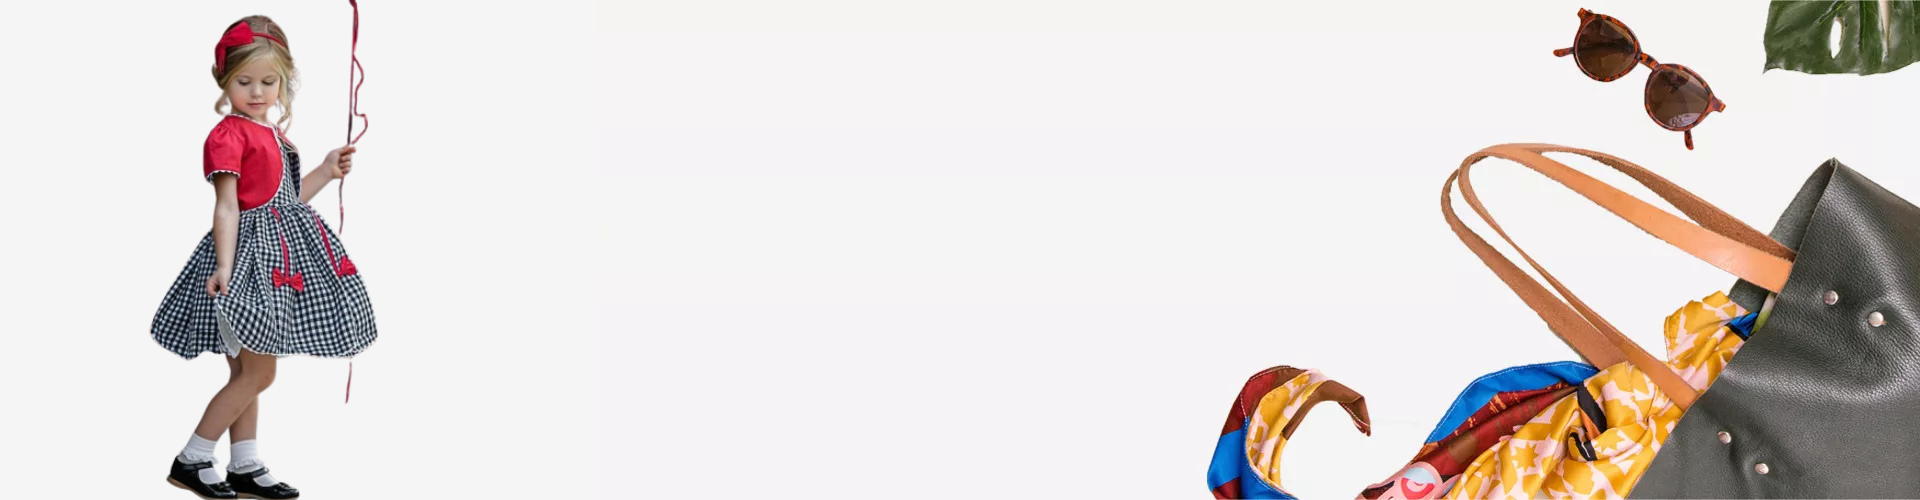
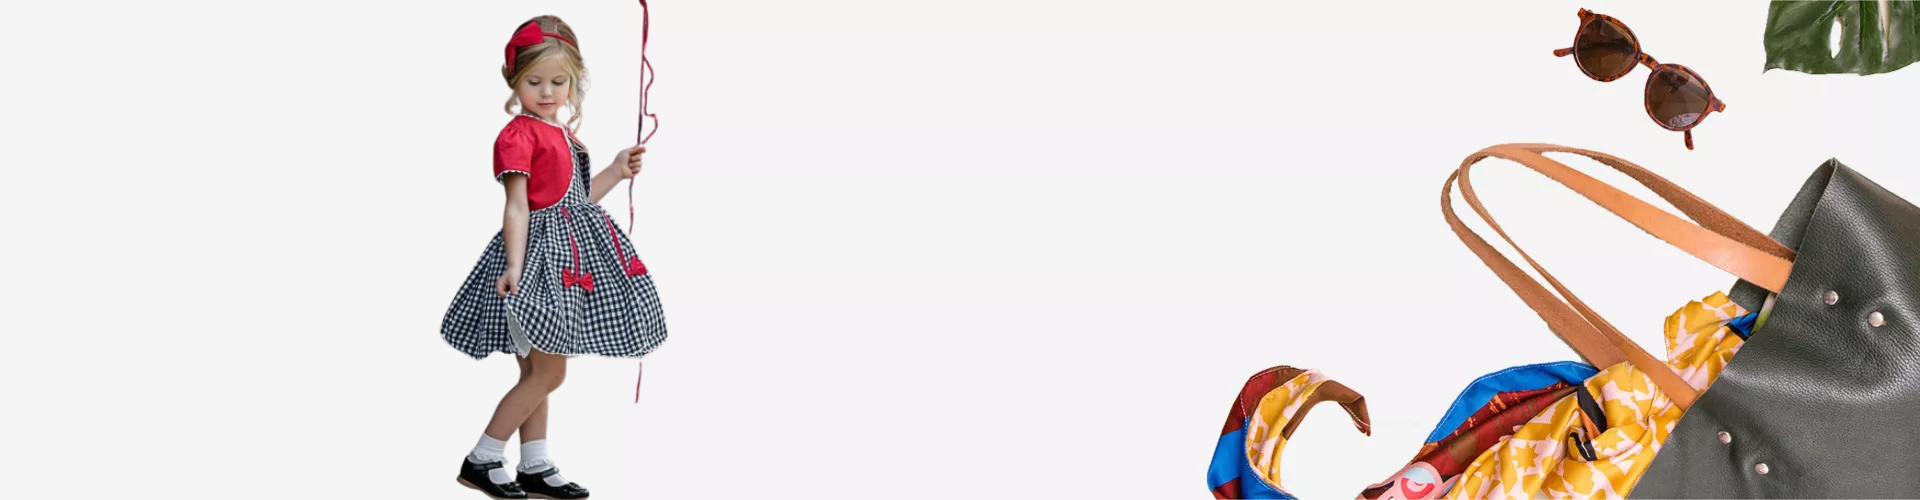
us ajax

Changed region(s): [[0.0625, 0.0, 0.375, 1.0]]

diff --git a/assets/script.js b/assets/script.js
@@ -1,6 +1,24 @@
-import {products}  from './products.js';
+// import {products}  from './products.js';
 var products_tab = document.getElementById('products-tab');
 var category_tab = Array.from(document.getElementById('category-tab').children);
+var products=[];
+
+const xhr=new XMLHttpRequest();
+xhr.open('GET','./assets/products.json');
+xhr.onreadystatechange=function(){
+ 
+    if(xhr.readyState==4 &&  xhr.status==200){
+       var products=JSON.parse(xhr.response);
+       createElementOfproducts(products);
+        console.log("products get correctly");
+    }else{
+        console.log("products failed");
+    }
+
+}
+xhr.send();
+
+
 function create_product(url, type, price, offer = null, name, stars) {
     return `
         
@@ -28,43 +46,47 @@ function create_product(url, type, price, offer = null, name, stars) {
         `;
 }
 
-category_tab.forEach(function(tab,index) {
-    var ele = document.createElement('div');
-    ele.id = tab.dataset.type;
-    if(index === 0){
 
-        ele.className = 'tab-pane fade show active';
-    }else{
-        ele.className = 'tab-pane fade';
-    }
+function createElementOfproducts(products) {
+    category_tab.forEach(function(tab,index) {
+        var ele = document.createElement('div');
+        ele.id = tab.dataset.type;
+        if(index === 0){
     
-    var product_list= document.createElement('section');
-    product_list.className = 'products-list row';
+            ele.className = 'tab-pane fade show active';
+        }else{
+            ele.className = 'tab-pane fade';
+        }
+        
+        var product_list= document.createElement('section');
+        product_list.className = 'products-list row';
+        
     
-
-    // Filter products based on the category type
-    var productsList = (tab.dataset.type !== 'all')
-        ? products.filter(function(product) {
-            return product.type === tab.dataset.type;
-        })
-        : products;
-
-    // If products are found, append them
-    if (productsList.length > 0) {
-        productsList.forEach(function(product) {
-            product_list.innerHTML += create_product(
-                product.url, 
-                product.type, 
-                product.price, 
-                product.offer, 
-                product.title, 
-                product.stars
-            );
-        });
-        ele.appendChild(product_list);
-        products_tab.appendChild(ele);
-    }
-});
+        // Filter products based on the category type
+        var productsList = (tab.dataset.type !== 'all')
+            ? products.filter(function(product) {
+                return product.type === tab.dataset.type;
+            })
+            : products;
+    
+        // If products are found, append them
+        if (productsList.length > 0) {
+            productsList.forEach(function(product) {
+                product_list.innerHTML += create_product(
+                    product.url, 
+                    product.type, 
+                    product.price, 
+                    product.offer, 
+                    product.title, 
+                    product.stars
+                );
+            });
+            ele.appendChild(product_list);
+            products_tab.appendChild(ele);
+        }
+    });
+    
+}
 
 
 

diff --git a/assets/style.css b/assets/style.css
@@ -183,9 +183,29 @@ header a {
   position: relative;
   width:100%;
   background-size:cover;
-  background-position:top right 103%;
+  background-position:top right 98%;
   background-repeat:no-repeat;  
   height:638px;
+}
+
+
+@media (max-width:650px){
+  .banner .category {
+    
+    background-position:top right 66%;
+
+  }
+
+
+}
+@media (min-width:650px) and ( max-width:920px){
+  .banner .category {
+    
+    background-position:top right 102%;
+
+  }
+
+
 }
 .banner .category .text{
   width:65%;
